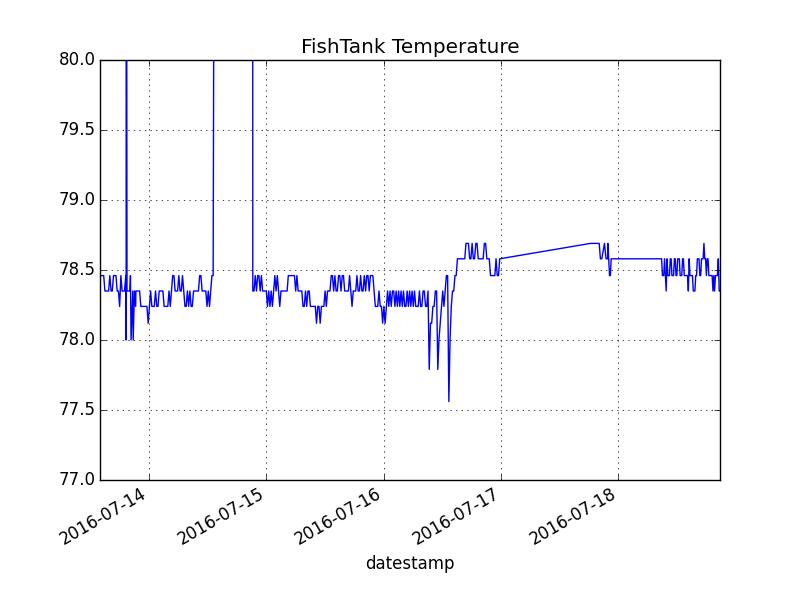
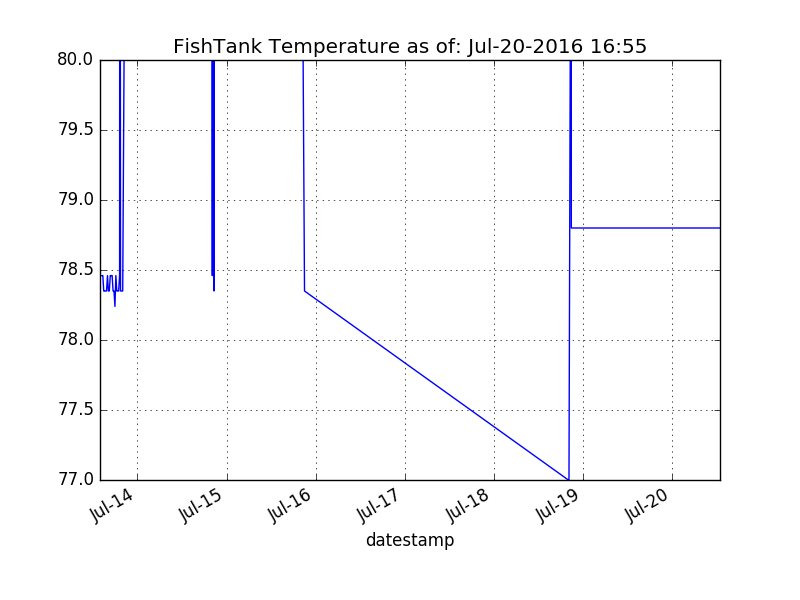
up

diff --git a/fishtank_v2.py b/fishtank_v2.py
@@ -24,6 +24,7 @@ import pandas as pd
 # import numpy as np
 import matplotlib.pyplot as plt
 import matplotlib.dates as md
+# import matplotlib.ticker as ticker
 # import matplotlib.cbook as cbook
 import schedule
 import time
@@ -72,11 +73,15 @@ if not args.test:
 LOG_FILENAME = dir + 'fishtank.log'
 
 logger = logging.getLogger('FishTankLogger')
-logger.setLevel(logging.INFO)
 
 # add the rotating log message handler
 fh = logging.handlers.RotatingFileHandler(LOG_FILENAME, maxBytes=100000, backupCount=5)
-fh.setLevel(logging.INFO)
+if args.test:
+        logger.setLevel(logging.DEBUG)
+        fh.setLevel(logging.DEBUG)
+else:
+        logger.setLevel(logging.INFO)
+        fh.setLevel(logging.INFO)
 
 # create formatter and add it to the handlers
 formatter = logging.Formatter(fmt='%(asctime)s %(levelname)s %(message)s', datefmt='%Y-%m-%d %H:%M:%S')
@@ -190,14 +195,12 @@ def prowl(event, description, pri=None):
                    priority=pri)
 
             # prowl push to tej
-            """
             p.push(apikey2,
                    'Fishtank',
                    event,
                    description,
                    url=None,
                    priority=pri)
-            """
 
         except IOError:
             logger.error('prowl error')
@@ -280,31 +283,34 @@ def tempanalysis():
         while True:
             try:
                 ### pull in log fishtemp.log file into pandas
-                logger.info('start tempanalysis')
+                logger.debug('tempanalysis start')
+                timestamp = dt.datetime.now()
                 pdinp = pd.read_csv(TEMP_LOG_FILENAME, header=None,
-                                    names=['datestamp', 'type', 'status',
-                                           'temp_C', 'temp_F'],
+                                    names=['datestamp','type',
+                                           'status', 'temp_C', 'temp_F'],
                                     index_col=0, parse_dates = True,
                                     skipinitialspace=True)
                 logger.debug('pd.read_csv done')
                 pdinp = pdinp.dropna()
-                pdinp.plot(title='FishTank Temperature', kind='line',
-                           grid=True, y='temp_F', ylim=[temp_f_lo, temp_f_hi])
+                pdinp.plot(title='FishTank Temperature as of: '
+                           +timestamp.strftime('%b-%d-%Y %H:%M'),
+                           kind='line',grid=True, y='temp_F',
+                           ylim=[temp_f_lo, temp_f_hi])
                 logger.debug('plot done')
                 fig = plt.gcf()
                 logger.debug('fig done')
                 ax = fig.add_subplot(111)
                 logger.debug('subplot done')
-                ax.xaxis.set_major_formatter(md.DateFormatter('%Y-%m-%d'))
+                ax.xaxis.set_major_formatter(md.DateFormatter('%b-%d'))
                 logger.debug('axis format done')
-                fig.savefig('plot.png')
+                fig.savefig(dir + 'plot.png')
                 if args.plotonly:
                     pass
                     plt.show()
-                logger.info('end tempanalysis')
+                logger.info('tempanalysis done')
                 break
             except:
-                logger.error(str(sys.exec_info()[0]))
+                logger.error('tempanalysis error')
         return
 
 # heartbeat function
@@ -344,11 +350,11 @@ def main():
 
     # start or stop light/bubbles on first run
     if start <= timestamp <= end:
-        relay1_on()
         logger.info('start relay1_on')
+        relay1_on()
     else:
-        relay1_off()
         logger.info('start relay1_off')
+        relay1_off()
 
     # log temp on first run
     dailylog()
